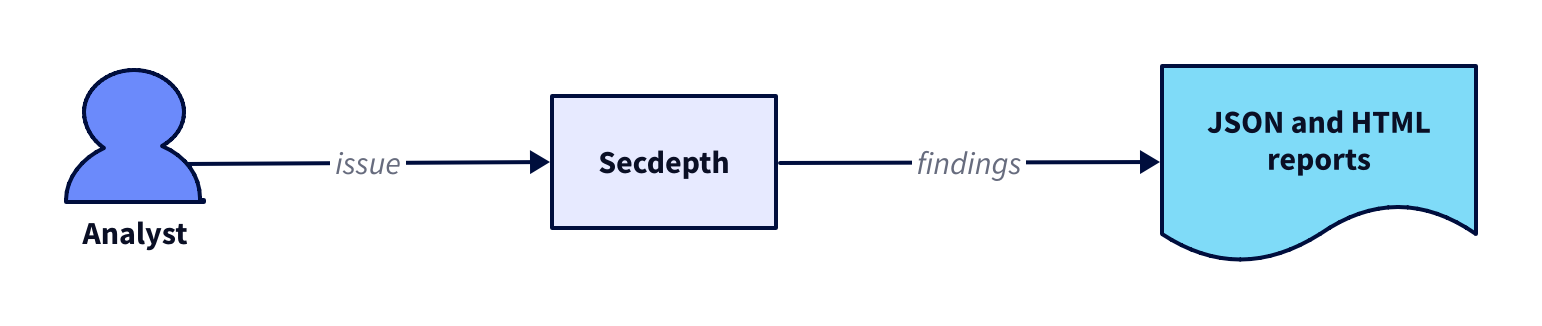
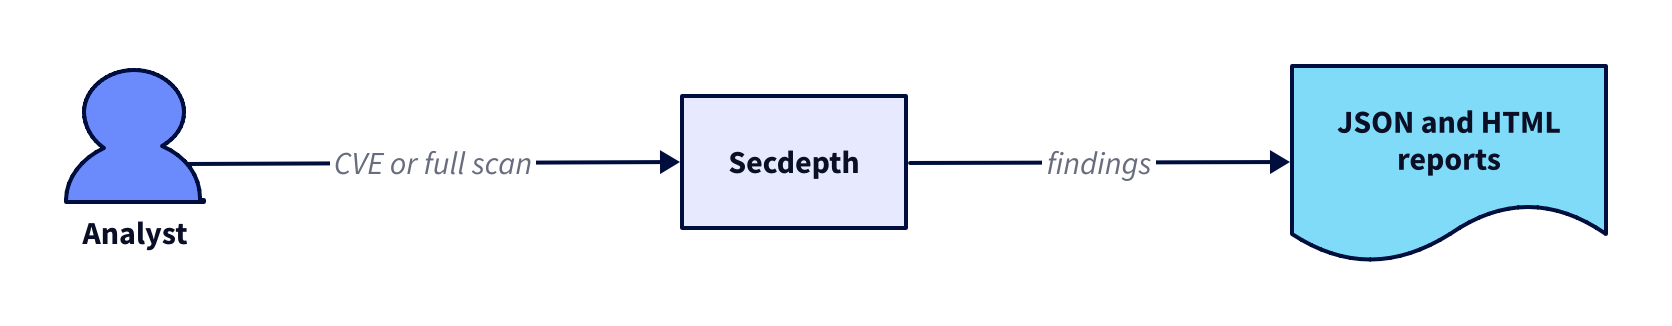
feat: scan all dependencies when no issue is named
Pick the mode from the invocation without prompting: investigate a
named CVE or advisory, or scan the full resolved dependency tree,
including transitive and development dependencies, and analyze every
published advisory that matches. Record scan coverage and component
scope in the report, and add example results and a disclaimer to the
README.

diff --git a/skills/secdepth/SKILL.md b/skills/secdepth/SKILL.md
@@ -1,32 +1,43 @@
 ---
 name: secdepth
-description: Research code-related security incidents and CVEs, assess exploitability in a target codebase, and produce linked, SLA-ordered JSON and offline HTML findings. Use for vulnerability investigations; do not use as a continuous scanner or to run exploits.
+description: Research a named CVE or security issue, or scan a project's full dependency tree for every published vulnerability, then assess exploitability in the codebase and produce linked, SLA-ordered JSON and offline HTML findings. Use for one-off vulnerability investigations; do not use as a continuous scanner or to run exploits.
 ---
 
 # Secdepth
 
-Produce a defensible, source-linked investigation for a named CVE, incident, package, image, or affected product. This is a search and analysis workflow, not a daemon. Do not exploit systems or edit the target repository.
+Produce a defensible, source-linked investigation of a target project's security exposure. This is a search and analysis workflow, not a daemon. Do not exploit systems or edit the target repository.
+
+## Modes
+
+Choose the mode from the invocation and start immediately. Do not ask the caller to pick a mode, a scan depth, or which advisories to include.
+
+- **Named issue**: the caller supplies a CVE, GHSA, OSV, or other advisory ID, an incident, a package, an image, or a product. Investigate that issue against the target even if scanners and advisory databases do not list it as affecting the project; a caller often names an issue precisely because a tool missed it.
+- **Project scan**: the caller supplies no issue. Find every published vulnerability that affects the target: advisories for the project itself when it is a published package, and advisories for every component in its resolved dependency tree, direct and transitive, across every ecosystem present. Include development, build, and optional dependencies; record their scope instead of dropping them. Analyze every hit with the same depth as a named issue. Follow [Project scan](references/research-guidance.md#project-scan) for coverage rules.
+
+Record the mode and scan coverage in `report.target`. If an input is missing or ambiguous, choose the broader reasonable reading, record the assumption in the report, and continue.
 
 ## Output
 
 Unless the caller gives an output directory, create `<caller's current working directory>/security-findings/` before researching and keep the draft JSON, canonical `report.json`, and generated `report.html` there. Do not leave a draft report in the skill directory or elsewhere. Use `scripts/render_report.py` from this skill to normalize a report and render an offline, searchable, expandable HTML view:
 
 ```sh
-python3 /path/to/secdepth/scripts/render_report.py ./security-findings/draft.json
-python3 /path/to/secdepth/scripts/render_report.py ./audit/security-findings/draft.json --output-dir ./audit/security-findings
+python3 <skill-dir>/scripts/render_report.py ./security-findings/draft.json
+python3 <skill-dir>/scripts/render_report.py ./audit/security-findings/draft.json --output-dir ./audit/security-findings
 ```
+
+`<skill-dir>` is the directory that contains this `SKILL.md`.
 
 The JSON is authoritative. HTML must remain usable without a network connection and must link to every cited source. The report schema and ordering rules are in [references/report-schema.json](references/report-schema.json) and [references/research-guidance.md](references/research-guidance.md).
 
 ## Research workflow
 
-1. Establish scope: current UTC date/time, target repository or runtime, commit/branch, manifests and lockfiles, container/base image, deployment configuration, and the exact issue identifiers. If no local context is available, set local exploitability to `undetermined` and say why.
+1. Establish scope: current UTC date/time, target repository or runtime, commit/branch, manifests and lockfiles, container/base image, deployment configuration, and the exact issue identifiers. In project-scan mode, resolve the full dependency tree and collect every advisory that matches it; each distinct advisory becomes one finding. If no local context is available, set local exploitability to `undetermined` and say why.
 2. Start with primary sources: CVE.org/NVD, the assigning CNA, vendor or project advisory and release notes, then OSV/GHSA and distribution notices. Use exploit writeups or PoCs only as supplemental evidence. Record publisher, source type, URL, access date, and which claim it supports.
 3. Describe each CVE in plain language: affected product/package and ranges, attack vector and preconditions, impact, CVSS score/vector and severity, CWE when available, disclosure and update dates, and whether exploitation is known. Keep confirmed patch dates separate from estimated ETA; use `unknown` when no ETA is published.
 4. Inspect the target without changing it. Trace the root service/application/container through manifests, lockfiles, image metadata, build/workflow files, configuration, and code usage. Record stable component IDs, direct versus transitive status, exact dependency paths, reachable entry points, and evidence. A version match alone does not prove exploitability.
-5. Assess in-us exploitability with `presence`, `reachability`, `attack_preconditions`, `evidence`, and `confidence`. State what is not known. Recommend a target fixed version or vendor update when released, describe temporary mitigations, and record blockers such as incompatible APIs, unavailable builds, unsupported platforms, or an unfixable upstream.
+5. Assess in-use exploitability with `presence`, `reachability`, `attack_preconditions`, `evidence`, and `confidence`. State what is not known. Recommend a target fixed version or vendor update when released, describe temporary mitigations, and record blockers such as incompatible APIs, unavailable builds, unsupported platforms, or an unfixable upstream.
 6. Assign an SLA rank or due date only when supplied by the caller or an authoritative policy source. A finding belongs in `Fix available` only when applicability is `affected`, update status is `released`, target version is non-empty and not `unknown` or `undetermined`, and feasibility is `feasible`. Put all other affected findings in `No deployable fix`. Put `not-affected`, `unknown`, and `undetermined` applicability in `No confirmed local exposure / assessment incomplete`. Within each group, ranked findings come first by ascending rank. Then order by numeric CVSS score descending, severity label for equal or missing scores, and CVE ID ascending.
-7. Run the renderer against `security-findings/draft.json`, inspect both files, and return the output paths plus a short decision summary. Do not silently fill unknown facts or claim that a mitigation is a patch.
+7. Run the renderer against `security-findings/draft.json`. If it reports draft errors, fix the draft and run it again. Inspect both files and return the output paths plus a short decision summary. Do not silently fill unknown facts or claim that a mitigation is a patch.
 
 ## Portable use
 

diff --git a/README.md b/README.md
@@ -14,14 +14,51 @@ gh repo clone kobaltoxid/secdepth ~/.local/share/secdepth
 ~/.local/share/secdepth/scripts/install-user.sh
 ```
 
-Pass `codex` or `claude` to install for only one agent. Start a new agent session after installation. Report rendering requires Python 3.
+The script links the skill into `~/.agents/skills` for Codex. For Claude Code, it links into `$CLAUDE_CONFIG_DIR/skills` when `CLAUDE_CONFIG_DIR` is set, and into `~/.claude/skills` otherwise. Pass `codex` or `claude` to install for only one agent.
+
+To add the skill to another Claude Code profile, run the script with that profile's config directory:
+
+```sh
+CLAUDE_CONFIG_DIR=~/.claude-other ~/.local/share/secdepth/scripts/install-user.sh claude
+```
+
+Start a new agent session after installation. Report rendering requires Python 3.
+
+To run the renderer and installer tests from the repository root, use `python3 -m unittest discover -s tests`.
 
 ## Use it in a project
 
-From the project root, invoke `$secdepth` with the CVE or issue you want to investigate. Include your remediation deadlines or priority rules if they should guide the report. The agent checks primary advisories against the project's dependencies, configuration, and code. See the [use guide](docs/use-secdepth.md).
+From the project root, invoke `$secdepth` in Codex or `/secdepth` in Claude Code. What you pass decides the mode; the skill does not ask follow-up questions:
 
-![An analyst supplies an issue to Secdepth, which produces JSON and HTML reports.](docs/diagrams/secdepth-flow.svg)
+- **Scan the project:** invoke it with no argument. It resolves the full dependency tree, including transitive, development, and build dependencies, finds every published vulnerability that matches, and analyzes how each one affects the project.
+- **Check one issue:** pass a CVE, GHSA, or other advisory ID, such as `/secdepth CVE-2021-44228`. Use this to check an issue that a scanner may have missed.
+
+Include your remediation deadlines or priority rules if they should guide the report. The agent checks primary advisories against the project's dependencies, configuration, and code. See the [use guide](docs/use-secdepth.md).
+
+![An analyst requests a CVE check or a full scan from Secdepth, which produces JSON and HTML reports.](docs/diagrams/secdepth-flow.svg)
 
 Figure 1. The agent drafts findings with citations, then the renderer writes both reports. [D2 source](docs/diagrams/secdepth-flow.d2)
 
 By default, the reports go in `security-findings/`. Use `report.json` as the authoritative record and open `report.html` to search findings, inspect dependency paths, and follow source links. See the [report output reference](docs/report-output.md).
+
+## Example results
+
+The screenshots below show the output of one run. The scanned project's name is replaced with `project`.
+
+![The security-findings folder containing draft.json, report.html, and report.json.](docs/images/security-findings-files.png)
+
+Figure 2. The run writes only `security-findings/`, which keeps the agent's draft beside the rendered reports.
+
+![The HTML report listing six CVEs, all grouped under no confirmed local exposure.](docs/images/report-overview.png)
+
+Figure 3. The report lists six advisories. None is confirmed to affect the project, so the two fix groups are empty.
+
+![An expanded finding for CVE-2024-51999 showing applicability, exploitability evidence, recommendation, and cited sources.](docs/images/report-finding-detail.png)
+
+Figure 4. CVE-2024-51999 was rejected as issued in error. The finding cites the rejection and recommends suppressing stale scanner results.
+
+## Disclaimer
+
+Secdepth is an independent project. It is not affiliated with, endorsed by, or sponsored by the maintainers of any project it scans or any project shown in these examples. The example results are shown only to illustrate the report format.
+
+Reports are produced by an AI agent from public advisory data and may be incomplete or wrong. Verify findings against the cited sources before acting on them. Secdepth is provided as is, without warranty of any kind.

diff --git a/skills/secdepth/references/research-guidance.md b/skills/secdepth/references/research-guidance.md
@@ -4,6 +4,18 @@
 
 Prefer CVE.org/NVD and the assigning CNA; the vendor or upstream project advisory and fixed release notes; then OSV, GHSA, and operating-system notices. Use exploit reports, scanners, and PoCs as supplemental sources. Capture `publisher`, `type`, `url`, `accessed_at`, and a short `supports` note. Never cite a search result page when the primary advisory is available.
 
+## Project scan
+
+Use this mode when the caller names no issue. The goal is complete coverage of published vulnerabilities, followed by the same per-finding analysis as a named issue.
+
+1. Inventory every ecosystem in the target: package manifests and lockfiles, vendored code, container base images, and build or CI tooling that ships with the product.
+2. Resolve the full dependency tree, direct and transitive. Prefer committed lockfiles. When an ecosystem has no lockfile, resolve one in a temporary copy outside the target with install scripts disabled (for example, `npm install --package-lock-only --ignore-scripts`), and record that versions were resolved on the scan date and may differ from a real install. Never install into, or write files in, the target repository.
+3. Query advisories for every resolved component, not only direct dependencies. Use OSV (including its batch query API) and GHSA as the primary bulk sources. Use read-only ecosystem auditors when available, such as `osv-scanner`, `npm audit --package-lock-only`, `pip-audit`, `govulncheck`, or `cargo audit`. When the target is itself a published package, also collect the advisories published for it.
+4. Merge aliases so one advisory known by several IDs (CVE, GHSA, OSV, distribution IDs) becomes one finding that lists every affected component and dependency path. Include withdrawn or rejected advisories that scanners may still report, and mark them `not-affected` with the withdrawal source.
+5. Analyze every finding. Do not sample, truncate, or skip transitive or development-only hits. A finding that cannot be fully assessed stays in the report as `undetermined` with the reason.
+
+Record coverage in `report.target`: `mode` (`named-issue` or `project-scan`), the ecosystems, manifests, and lockfiles inspected, how each tree was resolved, the advisory sources and tools queried with their access dates, the number of components checked, and any ecosystem or component that could not be checked. Set each component's `scope` (`runtime`, `dev`, `build`, `optional`, `peer`, or `unknown`) and `direct` flag so readers can see why a dev-only or transitive hit is or is not reachable.
+
 ## Local assessment
 
 Identify a root service, application, image, or library and give every component a stable ID. Trace direct and transitive edges from the root through manifests and lockfiles. Inspect configuration, build and deployment workflows, image metadata, and call sites or entry points. For every finding record:

diff --git a/docs/use-secdepth.md b/docs/use-secdepth.md
@@ -1,17 +1,17 @@
 # Use the Secdepth Skill
 
-Use this procedure to investigate a code security issue in a project and review its linked findings. The skill guides an agent to check current advisories, map affected dependencies, and assess whether vulnerable code is reachable in the target.
+Use this procedure to scan a project for published vulnerabilities, or to investigate one named issue, and review the linked findings. The skill guides an agent to check current advisories, map affected dependencies, and assess whether vulnerable code is reachable in the target.
 
 ## Prerequisites
 
 - An AI agent that can read the target project and access current security advisories.
 - Python 3 to render the final report.
-- The CVE, incident, package, image, or product to investigate.
+- Optionally, a CVE, advisory ID, incident, package, image, or product to investigate. Without one, the skill scans the whole project.
 
 ## Steps
 
-1. Start the agent from the target project's root and invoke `secdepth`. Give it the issue identifier, any known SLA policy, and an optional report destination.
-2. Let the agent inspect manifests, lockfiles, deployment configuration, and relevant code. Unless you specify another destination, the agent creates `security-findings/` in its current working directory and keeps the draft and rendered report there.
+1. Start the agent from the target project's root and invoke the skill: `$secdepth` in Codex or `/secdepth` in Claude Code. Invoke it alone to scan every dependency, or add an issue identifier to check that issue only. Add any known SLA policy and an optional report destination. The skill does not ask which mode or dependency depth to use.
+2. Let the agent inspect manifests, lockfiles, deployment configuration, and relevant code. A scan covers direct, transitive, development, and build dependencies. When a lockfile is missing, the agent resolves one in a temporary copy so the target stays unchanged. Unless you specify another destination, the agent creates `security-findings/` in its current working directory and keeps the draft and rendered report there.
 3. Render `security-findings/draft.json` with the skill's renderer:
 
    ```sh
